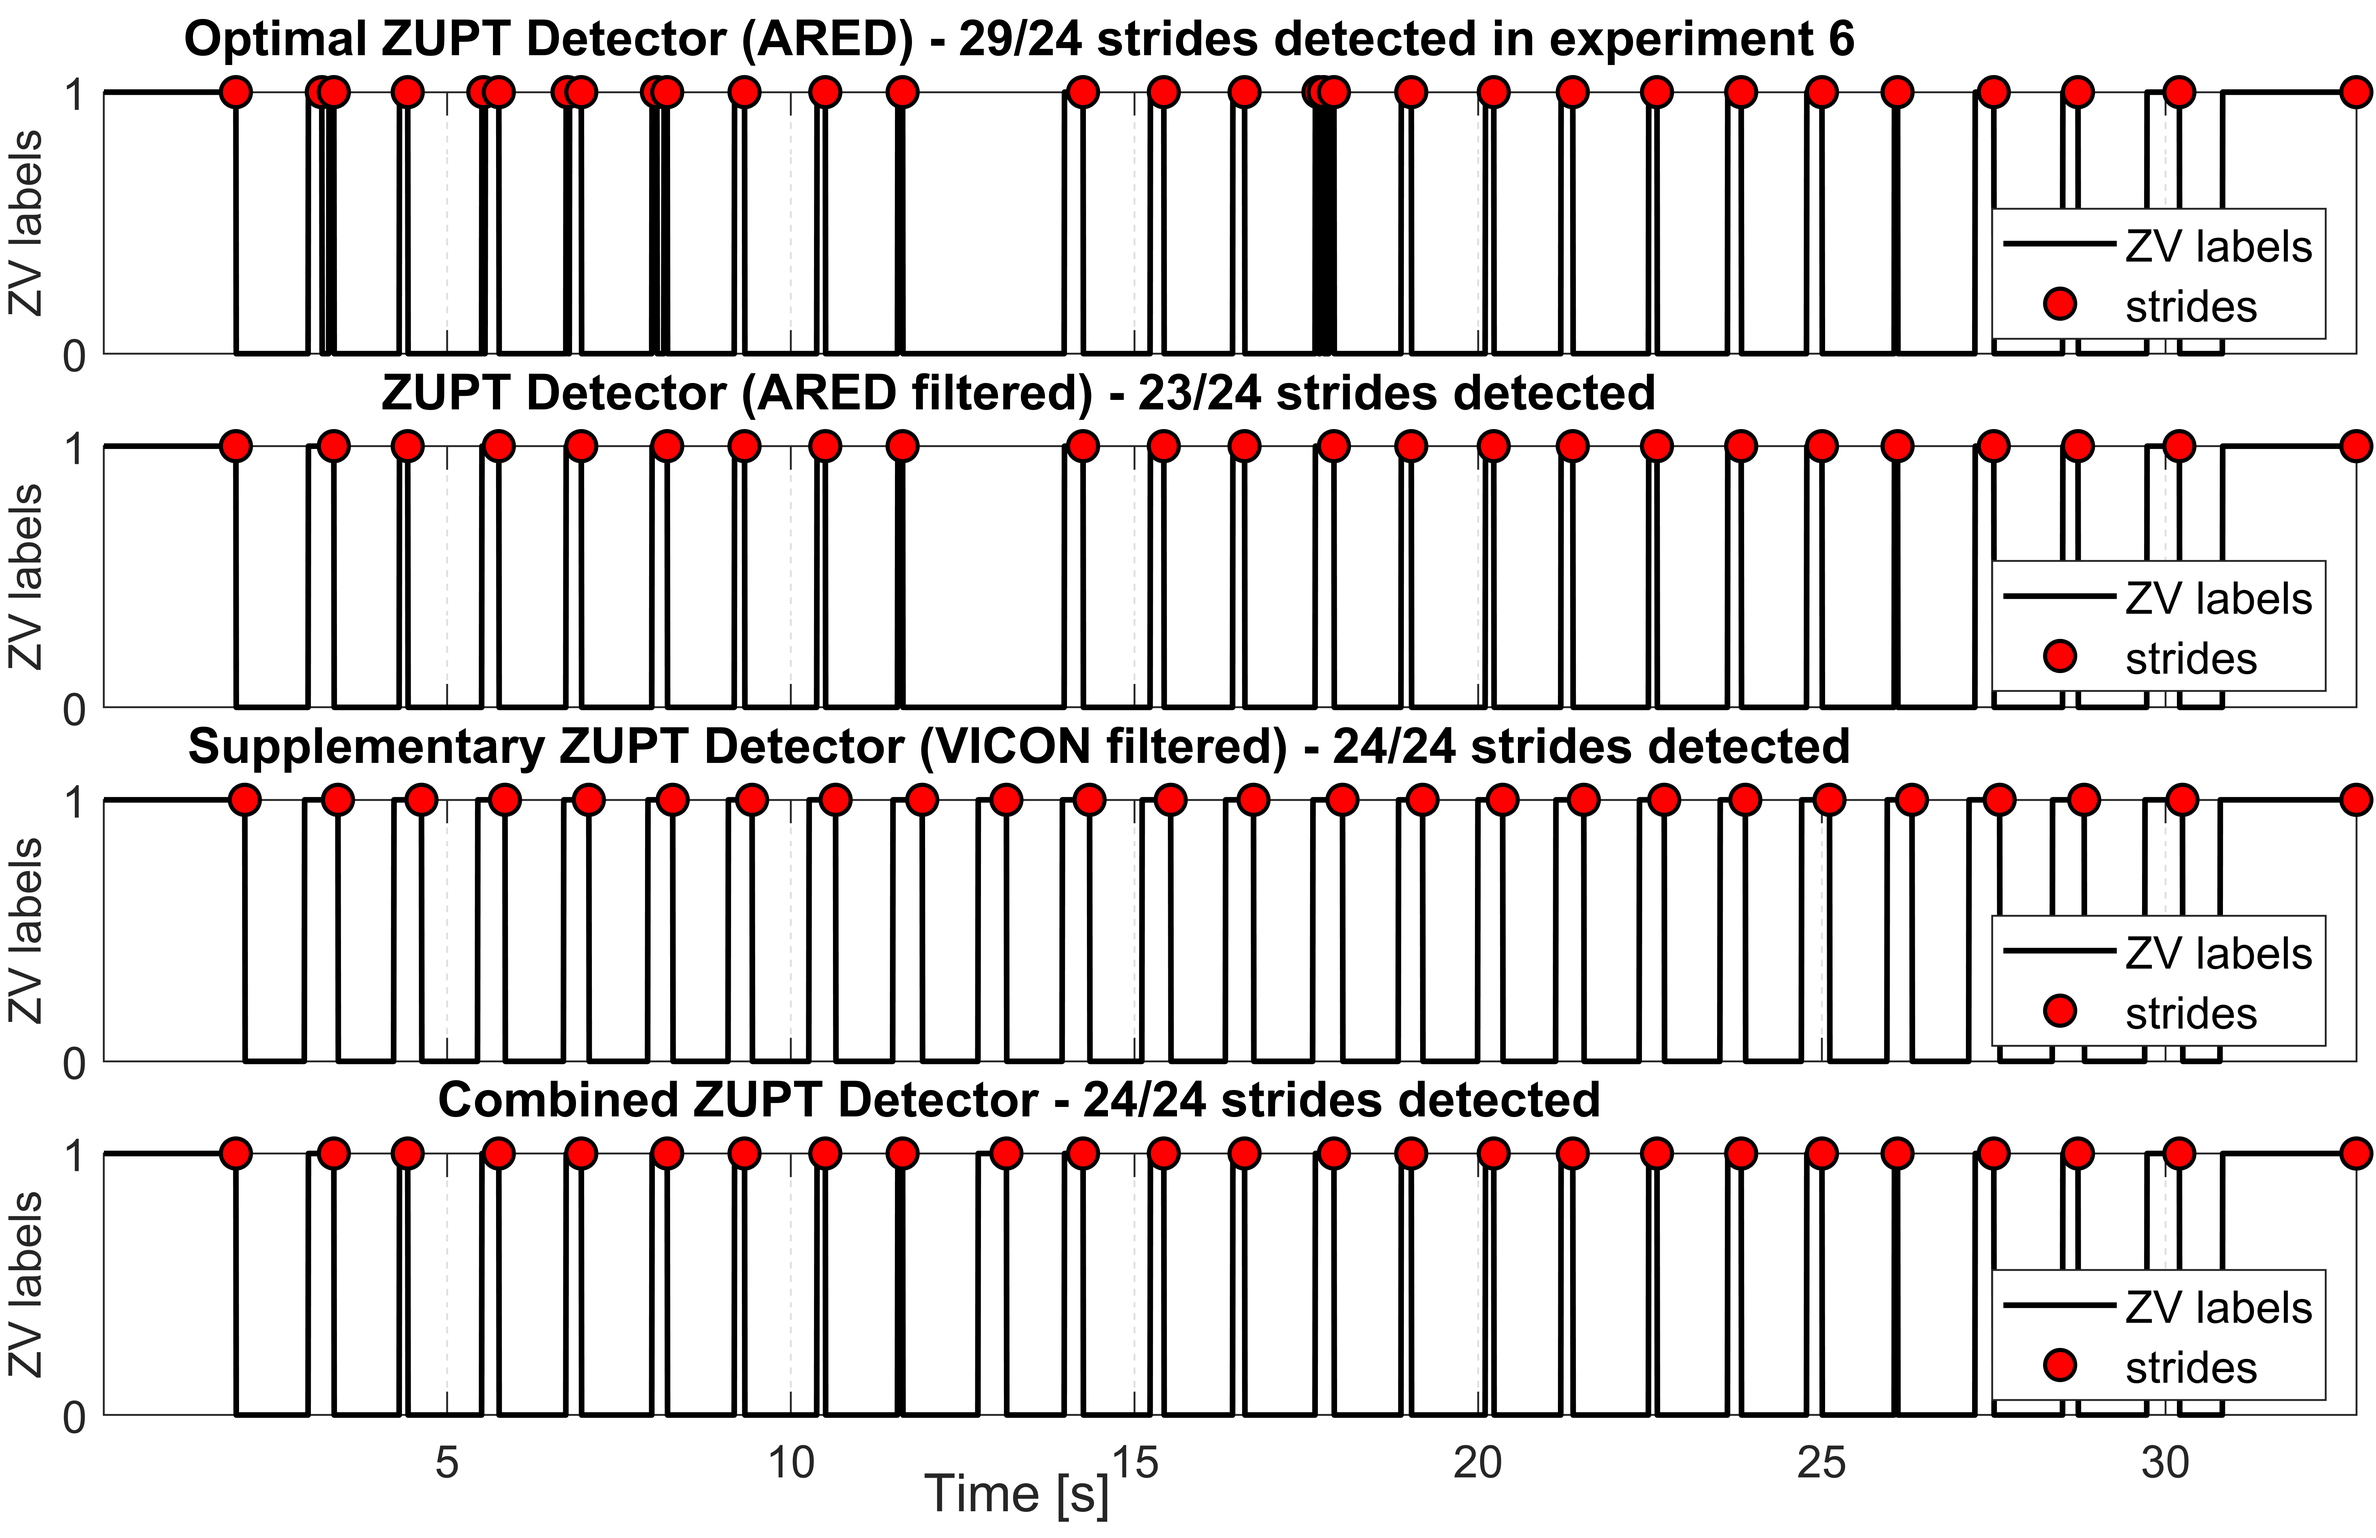
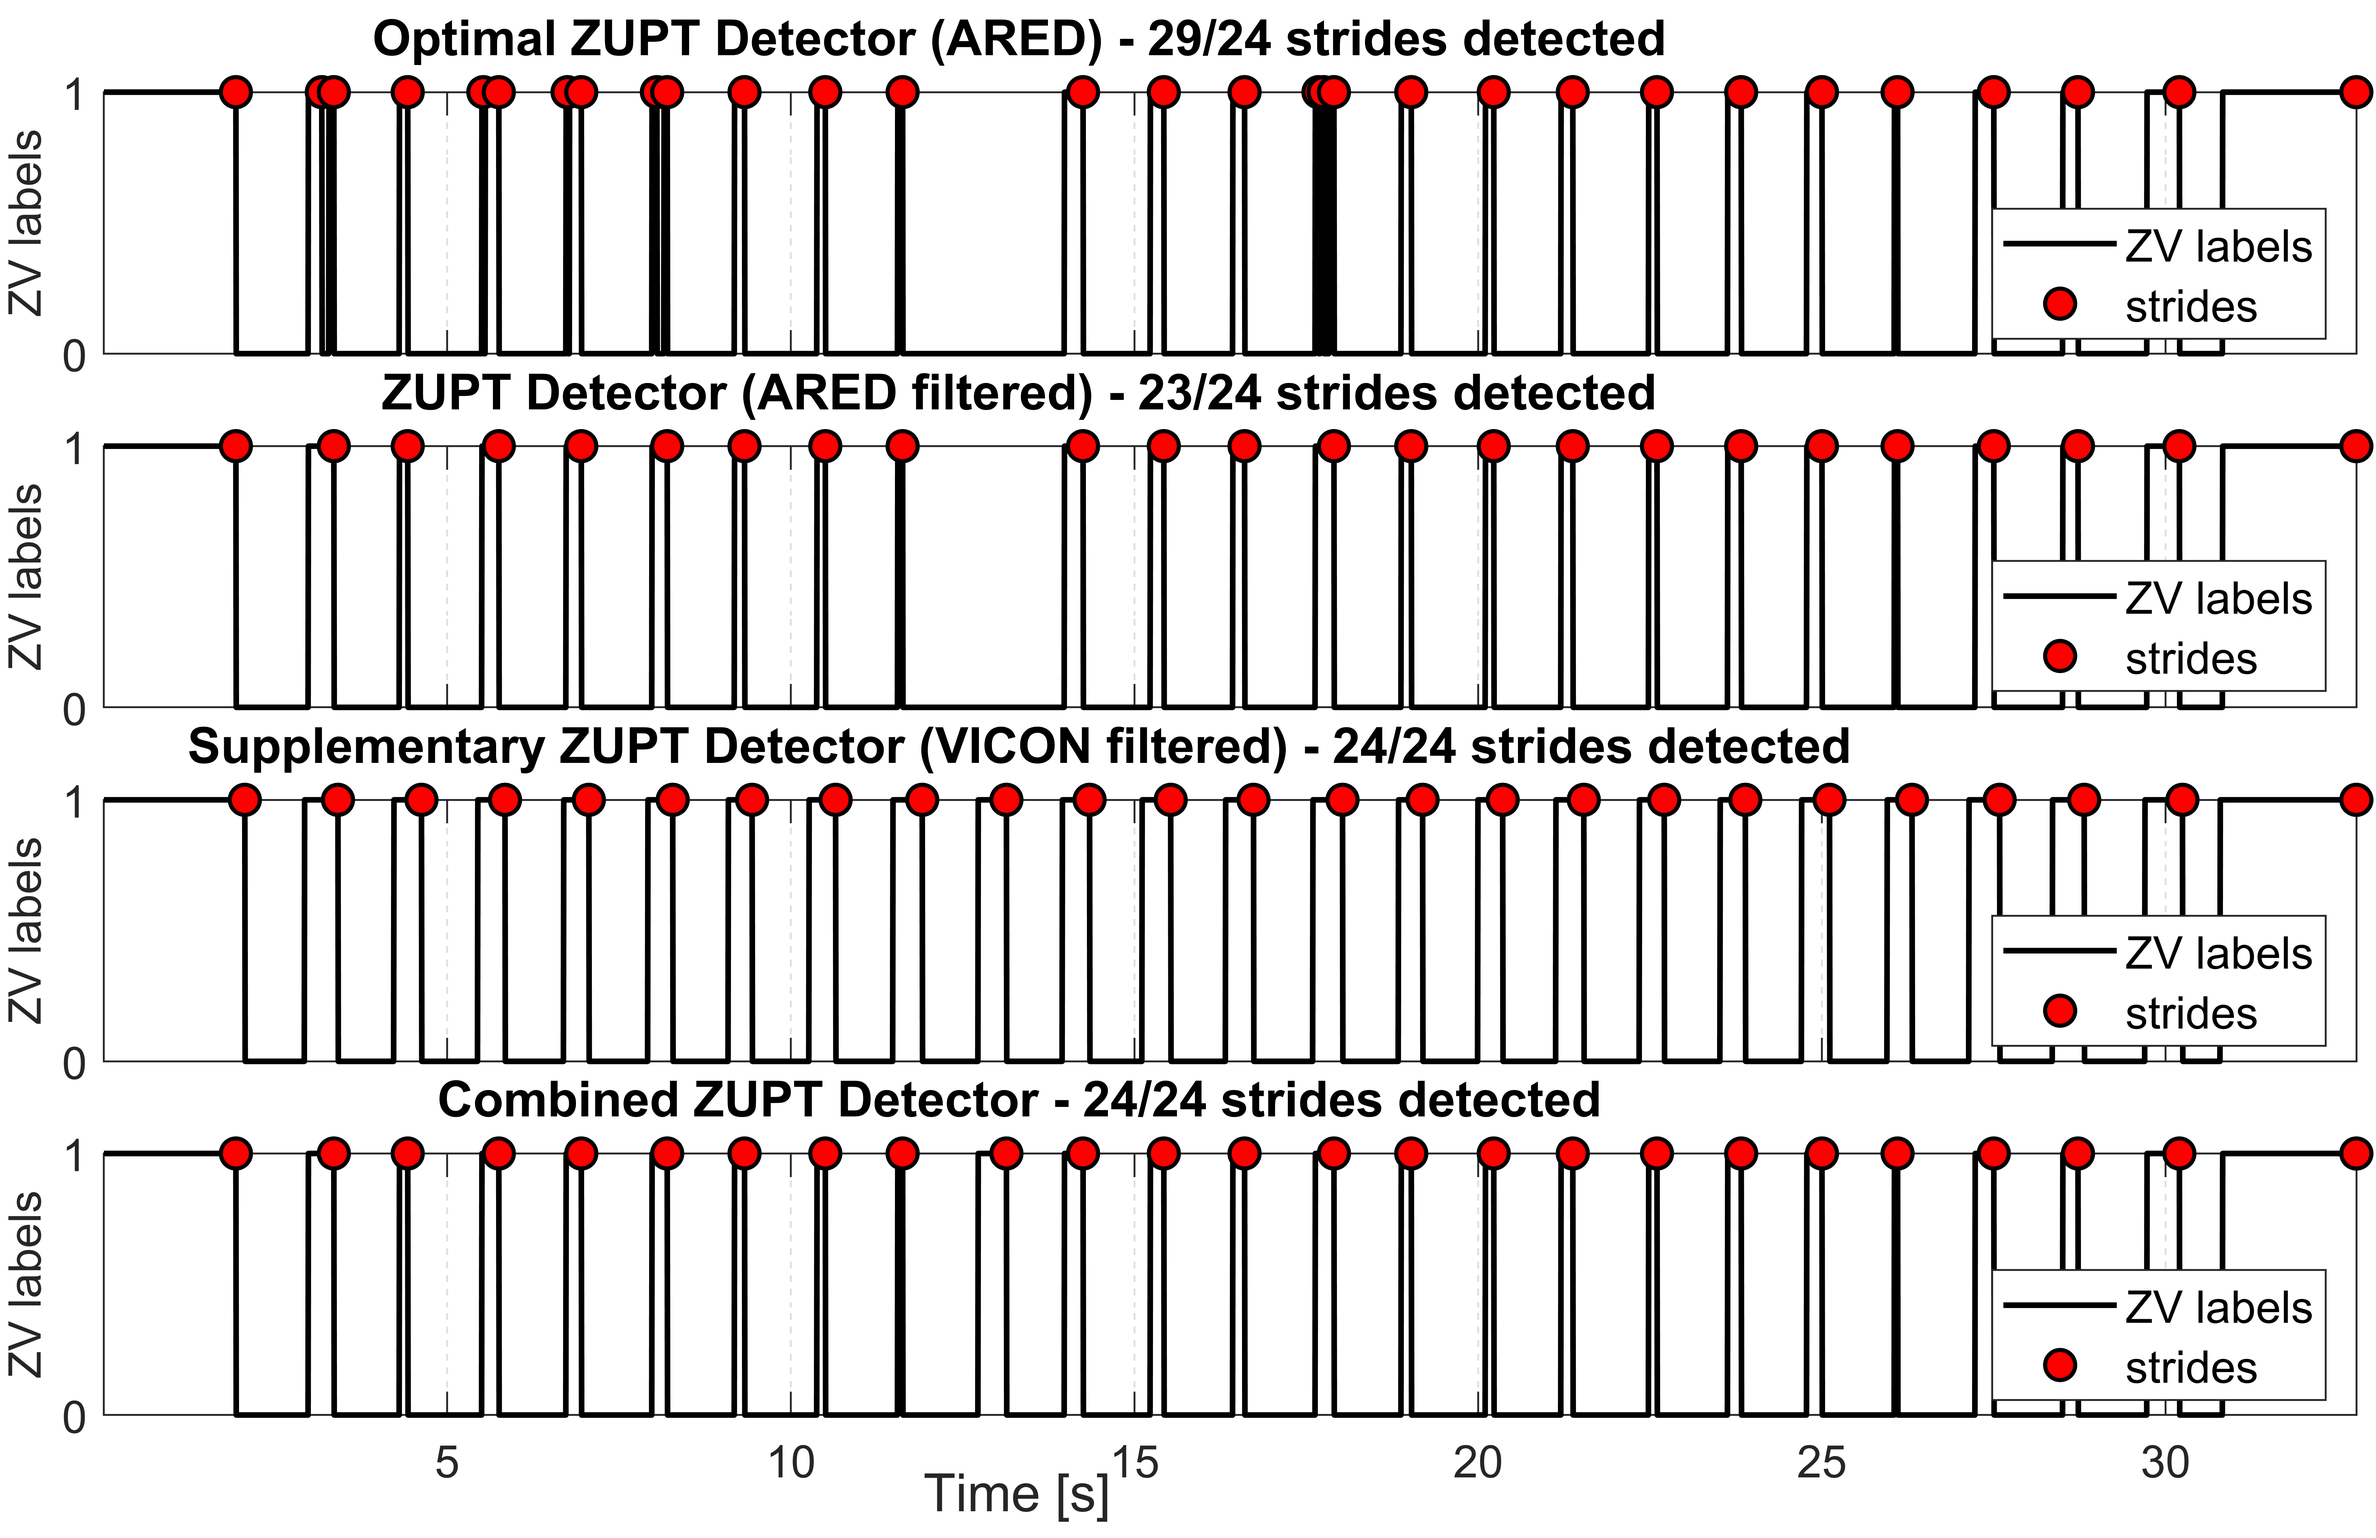
exp 4 and 6 corrections are added

Changed region(s): [[0.0624, 0.0, 0.7802, 0.0621]]

diff --git a/data/vicon/processed/detect_missed_strides.m b/data/vicon/processed/detect_missed_strides.m
@@ -82,7 +82,7 @@ h = legend('ZV labels', 'strides'); set(h, 'FontSize', 12, 'location', 'southeas
 set(gca, 'YTick', [0,1], 'YTickLabel', {'0','1'}); 
 set(gca, 'XTickLabel', {'','','','','',''}); set(gca, 'FontSize', 12);
 ylabel('ZV labels', 'FontSize', 12, 'FontWeight', 'normal');
-titleText = sprintf('Optimal ZUPT Detector (ARED) - %i/%i strides detected in experiment %i', n, nGT, expIndex);
+titleText = sprintf('Optimal ZUPT Detector (ARED) - %i/%i strides detected', n, nGT);
 h = title(titleText); set(h, 'position', [13.3280 1.0985 0]);
 
 subplot(4,1,2); % OPTIMAL DETECTOR (FILTERED DATA)

diff --git a/README.md b/README.md
@@ -92,7 +92,7 @@ pip install pandas==1.1.5
 <p align="justify">At this point, before checking the performance of LSTM ZUPT detector on VICON training data, for all five experiments, we examined other ZUPT detectors' results to see if they are able to detect missed steps. Qualitately speaking, for missed ZUPT phase regions, other detectors such as SHOE and ARED were able to produce 1s in some cases. This observation gave us the idea of using ARED, SHOE or other ZUPT detectors as supplementary detectors to include the missed stride into the set of strides detected by LSTM ZUPT detector. However, we did not use this idea on own collected data. Instead, we first visited VICON training dataset to see how LSTM ZUPT detector performed there. Then, in case of missed strides in some experiments, mentioned supplementary ZUPT detectors can be used for including missed strides. The ultimate goal is to extract a gait-driven system (stride & heading system) from VICON training dataset, which is a sampling-frequency driven system (sample-wise INS), by generating displacement and heading change values at each stride. Subsequently, produced displacement and heading change values will be used to train deep neural network or a time-series predictor that acts as an end-to-end modern INS, which will function as learned inertial odometry and eventually aid the traditional INS (i.e., robust ZUPT aided Error-State Kalman Filter).</p>
 
 <h3>Example Results (VICON training Data)</h3>
-<p align="justify">Here, some troublesome experiments are shown to understand stride detection problems. The optimal ZUPT detectors are run, e.g., SHOE for experiment 4, with the optimal threshold values (these values are supplied by Wagstaff <i>et. al.</i>) in the structure of the mat files in VICON room experiments of PyShoe dataset). The results are given as follows.</p>
+<p align="justify">Here, some troublesome experiments are shown to understand stride detection problems. The optimal ZUPT detectors are run (e.g., SHOE for experiment 4, ARED for experiment 6) with the optimal threshold values (the optimal ZV detectors and the respective optimal threshold values are supplied by Wagstaff <i>et. al.</i>) in the structure of the mat files in VICON room experiments of PyShoe dataset). The results are given as follows.</p>
 
 <h4>Experiment 4 (2017-11-22-11-25-20) - VICON training dataset</h4>
 
@@ -106,15 +106,33 @@ pip install pandas==1.1.5
 
 <p align="justify">Eventually, after correction process of VICON experiments, bipedal locomotion training dataset is going to be formed and subsequently the bi-LSTM network will be retrained for robust ZUPT phase (and stride) detection for bipedal locomotion data suhc as walking, jogging and running.</p>
 
-<p align="justify">Please use <b>detect_missed_strides.m</b> located at <b>data/vicon/processed</b> if you like to reproduce the following figures.</p>
+<p align="justify">Please use <b>detect_missed_strides.m</b> located at <b>data/vicon/processed</b> if you like to reproduce the figures related to training dataset correction.</p>
 
 <img src="data/vicon/processed/experiment4_ZUPT_detectors_strides.png" alt="ZV labels for experiment 4 (2017-11-22-11-25-20) VICON dataset" width=%100 height=auto>
 
-<p align="justify">Integration of optimal ZUPT detector SHOE (after filtering) with the supplementary VICON ZUPT detector provided us successfull detection of 10th stride as shown in the combined ZUPT detector plot shown at the bottom. Corrected trajectory and ZV labels can be seen below for the experiment 4.</p>
+<p align="justify">Integration of optimal ZUPT detector SHOE (after filtering) with the supplementary VICON ZUPT detector provided us successfull detection of the missed stride as shown in the combined ZUPT detector plot located at the bottom. Corresponding stride & heading system generated trajectory and ZV labels can be seen below for the experiment 4.</p>
 
 <img src="results/figs/vicon_bipedal_locomotion/stride_and_heading_2017-11-22-11-25-20_corrected.png" alt="experiment 4 (2017-11-22-11-25-20) VICON dataset - trajectory" width=%100 height=auto>
 
 <img src="results/figs/vicon_bipedal_locomotion/zv_labels_optimal_2017-11-22-11-25-20_corrected.png" alt="ZV labels for experiment 4 (2017-11-22-11-25-20) VICON dataset" width=%100 height=auto>
+
+<h4>Experiment 6 (2017-11-22-11-26-46) - VICON training dataset</h4>
+
+<p align="justify">We see that the 9th stride is not detected in the plots below.</p>
+
+<img src="results/figs/vicon_bipedal_locomotion/stride_and_heading_2017-11-22-11-26-46.png" alt="experiment 6 (2017-11-22-11-26-46) VICON dataset - trajectory" width=%100 height=auto>
+
+<img src="results/figs/vicon_bipedal_locomotion/zv_labels_optimal_2017-11-22-11-26-46.png" alt="optimal ZV labels for experiment 6 (2017-11-22-11-26-46) VICON dataset" width=%100 height=auto>
+
+<p align="justify">Just like we did to correct experiment 4 ZUPT phase and stride detection, here again VICON ZUPT detector is selected as the supplementary detector to include the detection of the missed stride.</p>
+
+<img src="data/vicon/processed/experiment4_ZUPT_detectors_strides.png" alt="ZV labels for experiment 6 (2017-11-22-11-26-46) VICON dataset" width=%100 height=auto>
+
+<p align="justify">Integration of optimal ZUPT detector SHOE (after filtering) with the supplementary VICON ZUPT detector provided us successfull detection of the missed stride as shown in the combined ZUPT detector plot located at the bottom. Corresponding stride & heading system generated trajectory and ZV labels can be seen below for the experiment 6.</p>
+
+<img src="results/figs/vicon_bipedal_locomotion/stride_and_heading_2017-11-22-11-26-46_corrected.png" alt="experiment 6 (2017-11-22-11-26-46) VICON dataset - trajectory" width=%100 height=auto>
+
+<img src="results/figs/vicon_bipedal_locomotion/zv_labels_optimal_2017-11-22-11-26-46_corrected.png" alt="ZV labels for experiment 6 (2017-11-22-11-26-46) VICON dataset" width=%100 height=auto>
 
 
 <p align="justify" id="ref1"><a href="#gobacktoref1">[1]</a> X. Liu, N. Li and Y. Zhang, <a href="https://ieeexplore.ieee.org/document/9956821" target="_blank">"A Novel Adaptive Zero Velocity Detection Algorithm Based on Improved General Likelihood Ratio Test Detector,"</a> in <i>IEEE Sensors Journal</i>, vol. 22, no. 24, pp. 24479-24492, 2022.</p>
